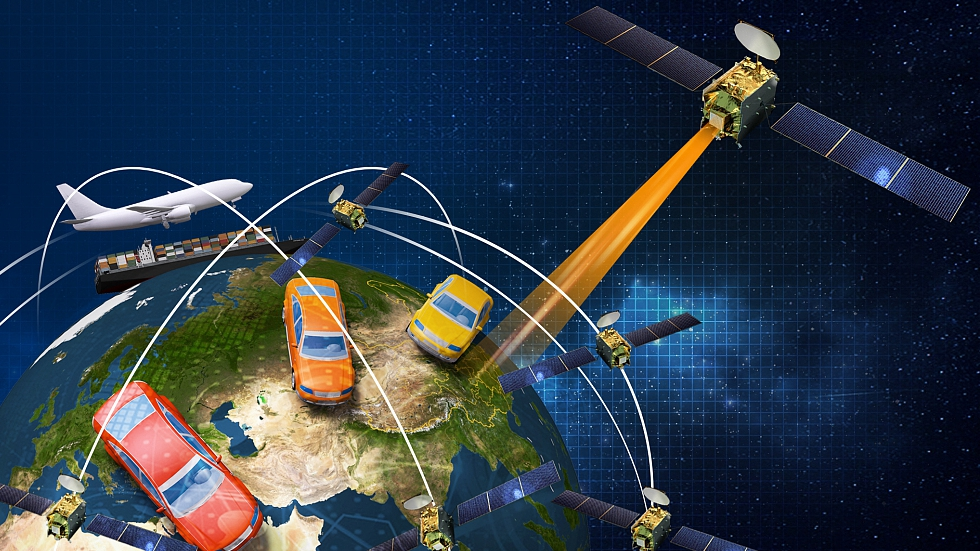
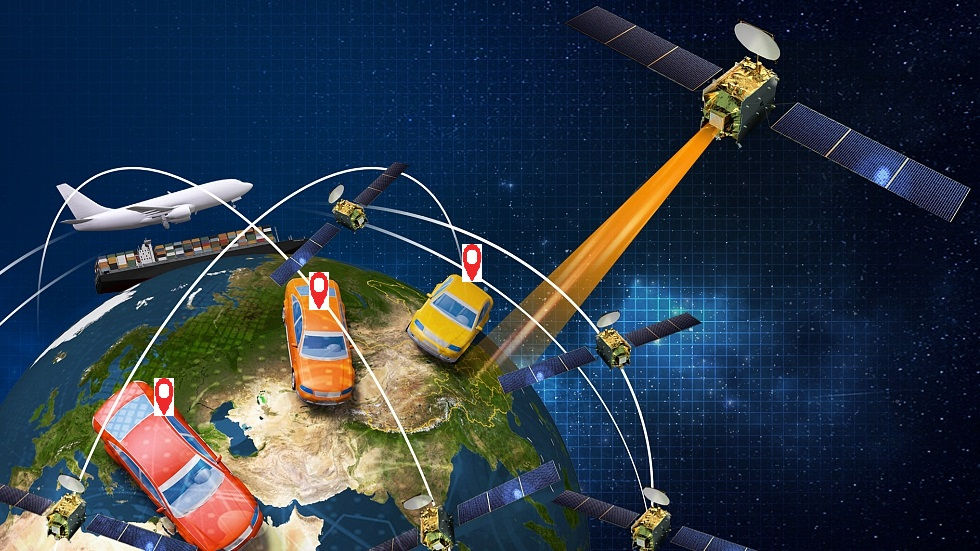
responsive css ok7

Changed region(s): [[0.4592, 0.4319, 0.4898, 0.5245], [0.3061, 0.4936, 0.3367, 0.5862], [0.1531, 0.6788, 0.1837, 0.7713]]

diff --git a/style/style.css b/style/style.css
@@ -197,7 +197,7 @@ strong {
     color: rgb(9, 9, 71);
 }
 #baniere{
-    color:chartreuse;
+    color:crimson;
     font-weight:bolder  ;
 }
 /* Css pour bas pour le footer */
@@ -305,13 +305,14 @@ animation-timing-function: ease-in-out;
 /*Css pour rendre le site responsive  */
 @media screen and (max-width:780px){
      main{
-        padding: 200px 30px 30px 30px ;
+        padding: 10px 30px 300px 30px ;
     }
     .menu-mobile{
         display: block;
         background: linear-gradient(rgb(27, 92, 153), rgb(143, 228, 228));
-        text-align: center;
-        color: white;      
+        text-align: left;
+        color: white;  
+        padding-left: 100px;
       }
 
       #menu ul {
@@ -320,7 +321,8 @@ animation-timing-function: ease-in-out;
 
       #menu ul li, #menu ul li a {
         width: 100%;
-        text-align: center;
+        text-align: left;
+        padding-left: 55px;
       }
       
       #menu ul li a , #menu ul li:hover a{
@@ -328,7 +330,28 @@ animation-timing-function: ease-in-out;
       }
 
       #menu li:hover .sumenu{
-        display: block;
+        display: none;
         position: static;
       }
+
+    #inputzone1{
+        width:  75%;
+    }
+    #inputzone2{
+        width : 100%;
+        height :200px;
+    }
+
+    #footerrepeat{
+        display: none;
+    }
+
+    #carrousel {
+        display: none;
+    }
+   /* #messagesubmit{
+        padding-bottom: 100px;
+    }
+*/
+
 }

diff --git a/pages/contact.html b/pages/contact.html
@@ -118,7 +118,7 @@
 		<!-- Contenu de la Page Bibliographie -->
 		<main>
 			<section id="contenu">
-				<div class="contactdiv">
+				<div class="contactdiv" id="footerrepeat">
 					<a href="https://www.facebook.com/soummam.iot" target="_blank"><img src="../images/facebookicon.jpg" alt="Facebook logo image" class="footerimage" ></a>
 					<a href="https://www.instagram.com/algerieiot" target="_blank"><img src="../images/instagramicon.jpg" alt="Instagram logo image" class="footerimage" ></a>
 					<a href="https://www.youtube.com/channel/UCnQG_MwArlHl5fyISjJENIw" target="_blank"><img src="../images/youtubeicon.png" alt="Instagram logo image" class="footerimage" ></a>
@@ -133,11 +133,11 @@
 				<div class="contactdiv">
 			
 					<form action="contact.php" method="post">
-						votre nom   <input type="text" name="cf_name" id="inputzone1"><br>
-						votre mail  <input type="text" name="cf_email" id="inputzone1"><br>
+						Nom   <input type="text" name="cf_name" id="inputzone1"><br>
+						Mail  <input type="text" name="cf_email" id="inputzone1"><br>
 						Message<br>
 						<textarea name="cf_message" id="inputzone2"></textarea><br>
-						<input type="submit" value="envoyer">
+						<input type="submit" value="envoyer" class="messagesubmit">
 					</form>
 		
 				</div>

diff --git a/index.html b/index.html
@@ -117,17 +117,22 @@
 
 		<!-- Contenu de la page Acceuil -->
 		<main >
-			<marquee behavior="alternate">
-				<p id="baniere">Algérie IoT: La haute technologie entre vos mains</p> 
-			 </marquee>
-			<div id="carrousel">
-				<ul id="content">
-					<li><img src="./images/carousel_01.gif" alt="carousel Image 01" /></li>
-					<li><img src="./images/carousel_02.gif" alt="carousel Image 02" /></li>
-					<li><img src="./images/carousel_03.png" alt="carousel Image 03" /></li>
-				
-				</ul>
-			</div>
+			<section id="contenu">
+				<marquee behavior="alternate">
+					<p id="baniere">Algérie IoT: La haute technologie entre vos mains</p> 
+			 	</marquee>
+				<div id="carrousel">
+					<ul id="content">
+						<li><img src="./images/carousel_01.gif" alt="carousel Image 01" /></li>
+						<li><img src="./images/carousel_02.gif" alt="carousel Image 02" /></li>
+						<li><img src="./images/carousel_03.png" alt="carousel Image 03" /></li>			
+					</ul>
+				</div>
+
+				<div id="insteadcarrousel">
+					<img src="./images/gps.jpeg" alt="carousel Image 01" />
+				</div>
+			</section>
 		</main>
 
 		<!-- Bas de page -->
